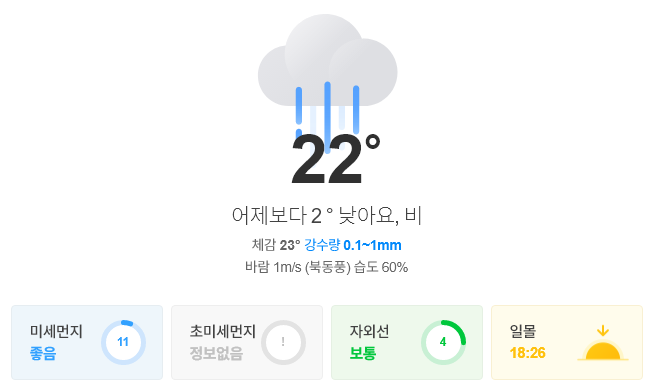
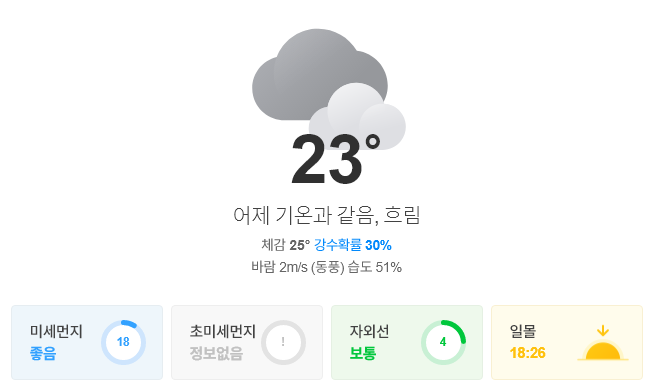
update result

Changed region(s): [[0.3675, 0.0579, 0.6432, 0.4921], [0.3369, 0.5211, 0.6432, 0.7237], [0.1838, 0.8395, 0.2144, 0.9263]]

diff --git a/README.md b/README.md
@@ -1,5 +1,5 @@
-##  2020-09-25 16:03:07   금요일 
-##### 날씨   -   어제보다 2 ° 낮아요, 비
+##  2020-09-25 18:05:43   금요일 
+##### 날씨   -   어제보다 1 ° 높아요, 구름많음
 <center><img src="../img/naver_weather_week.png"></center>
 ----
 ----
@@ -16,14 +16,14 @@
 <tr align = "right" > <td>DOW</td><td>26,815.44</td><td>52.31</td><td><font size="3" color="red" >0.2%</font></td><td><font size="3" color="black">0</font></td><td><font size="3" color="black">0</font></td><td>0</td>  </tr>
 <tr align = "right" > <td>NASDAQ</td><td>10,672.27</td><td>39.28</td><td><font size="3" color="red" >0.37%</font></td><td><font size="3" color="black">0</font></td><td><font size="3" color="black">0</font></td><td>0</td>  </tr>
 <tr align = "right" > <td>S&P</td><td>3,246.59</td><td>9.67</td><td><font size="3" color="red" >0.3%</font></td><td><font size="3" color="black">0</font></td><td><font size="3" color="black">0</font></td><td>0</td>  </tr>
-<tr align = "right" > <td>SHANHAI</td><td>3,224.46</td><td>1.29</td><td><font size="3" color="red" >0.04%</font></td><td><font size="3" color="black">0</font></td><td><font size="3" color="black">0</font></td><td>0</td>  </tr>
-<tr align = "right" > <td>INDIA</td><td>37,155.43</td><td>601.83</td><td><font size="3" color="red" >1.65%</font></td><td><font size="3" color="black">0</font></td><td><font size="3" color="black">0</font></td><td>0</td>  </tr>
+<tr align = "right" > <td>SHANHAI</td><td>3,219.42</td><td>-3.76</td><td><font size="3" color="blue" >-0.12%</font></td><td><font size="3" color="black">0</font></td><td><font size="3" color="black">0</font></td><td>0</td>  </tr>
+<tr align = "right" > <td>INDIA</td><td>37,322.89</td><td>769.29</td><td><font size="3" color="red" >2.1%</font></td><td><font size="3" color="black">0</font></td><td><font size="3" color="black">0</font></td><td>0</td>  </tr>
 </table>
 ----
 ##### 시장
 <table border="1" bordercolor="blue" align = "center" >
 <tr align = "right" > <td>Item</td><td>Price</td><td>Diff</td><td>Rate</td><td>Buy</td><td>Sell</td><td>...</td>  </tr>
-<tr align = "right" > <td>USD</td><td>1,171.0</td><td>-1.5</td><td><font size="3" color="blue">-0.13%</font></td><td><font size="3" color="black">1,150</font></td><td><font size="3" color="black">0</font></td><td>0</td>  </tr>
+<tr align = "right" > <td>USD</td><td>1,172.0</td><td>-0.2</td><td><font size="3" color="blue">-0.02%</font></td><td><font size="3" color="black">1,150</font></td><td><font size="3" color="black">0</font></td><td>0</td>  </tr>
 <tr align = "right" > <td>WTI</td><td>40.31</td><td>0.38</td><td><font size="3" color="red">0.95%</font></td><td><font size="3" color="black">29.0</font></td><td><font size="3" color="black">0</font></td><td>0</td>  </tr>
 <tr align = "right" > <td>GOLD</td><td>1,868.0</td><td>8.4</td><td><font size="3" color="red">0.45%</font></td><td><font size="3" color="black">0</font></td><td><font size="3" color="black">0</font></td><td>0</td>  </tr>
 </table>
